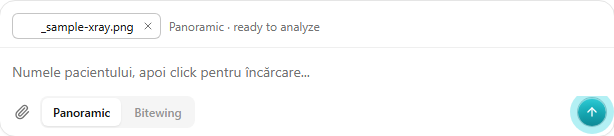
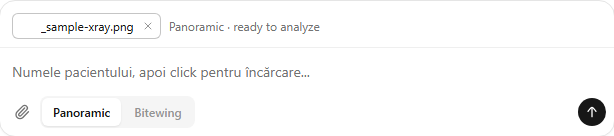
fix(frontend): Cavio green auth CTA + exact Notra Composer.Send
Auth CtaButton kept Notra structure (gradient + inset + halo) but
cta-gradient-primary hue remapped from Notra teal (#24d4df) to Cavio
green (oklab a/b for hue 156 / --primary).

Analyze Send reverted to verbatim apps/dashboard COMPOSER_SEND_BUTTON
(size-7 rounded-full bg-foreground) with Hugeicons ArrowUp02Icon size-4
— no CTA glow. Proof shots 30–36 + refreshed 21–24.

Changed region(s): [[0.9283, 0.7059, 1.0, 1.0], [0.2166, 0.1765, 0.2476, 0.2059]]

diff --git a/web/frontend/src/components/composer/composer-shell.tsx b/web/frontend/src/components/composer/composer-shell.tsx
@@ -1,9 +1,15 @@
-/**
+/**
  * Ported from usenotra/notra-src apps/dashboard/src/components/composer/composer-shell.tsx
- * Structure matches Notra Studio agent chat composer exactly.
- * Send uses Cavio green CTA (cta-gradient-primary) with inner glow when active.
+ * Structure + Send classes match Notra Studio agent chat composer exactly.
+ * Auth CTAs use separate CtaButton (green cta-gradient-primary) — Send does not.
  */
-import { ArrowUp, Loader2, Pencil, X } from "lucide-react";
+import {
+  ArrowUp02Icon,
+  Cancel01Icon,
+  Edit02Icon,
+} from "@hugeicons/core-free-icons";
+import { HugeiconsIcon } from "@hugeicons/react";
+import { Loader2 } from "lucide-react";
 import type { ComponentProps, ReactNode } from "react";
 import {
   Tooltip,
@@ -17,8 +23,6 @@ import {
   COMPOSER_NUDGE_ENTER,
   COMPOSER_NUDGE_GRID_TRANSITION,
   COMPOSER_SEND_BUTTON,
-  COMPOSER_SEND_BUTTON_ACTIVE,
-  COMPOSER_SEND_BUTTON_IDLE,
   COMPOSER_TOOLBAR_BUTTON,
 } from "@/constants/composer";
 import { cn } from "@/lib/utils";
@@ -144,7 +148,7 @@ function ComposerChip({
           onClick={onSteer}
           type="button"
         >
-          <ArrowUp className="size-3" />
+          <HugeiconsIcon className="size-3" icon={ArrowUp02Icon} />
         </button>
       ) : null}
       {onEdit && !pending ? (
@@ -154,7 +158,7 @@ function ComposerChip({
           onClick={onEdit}
           type="button"
         >
-          <Pencil className="size-3" />
+          <HugeiconsIcon className="size-3" icon={Edit02Icon} />
         </button>
       ) : null}
       {onRemove ? (
@@ -164,7 +168,7 @@ function ComposerChip({
           onClick={onRemove}
           type="button"
         >
-          <X className="size-3" />
+          <HugeiconsIcon className="size-3" icon={Cancel01Icon} />
         </button>
       ) : null}
     </span>
@@ -197,25 +201,22 @@ function ComposerSend({
   children,
   busy = false,
   disabled = false,
-  active = false,
   tooltip,
   label,
   onClick,
 }: ComposerSendProps) {
-  const content = busy ? <Loader2 className="size-3.5 animate-spin" /> : children;
-  const className = cn(
-    COMPOSER_SEND_BUTTON,
-    active && !disabled ? COMPOSER_SEND_BUTTON_ACTIVE : COMPOSER_SEND_BUTTON_IDLE,
-    disabled ? "pointer-events-none" : null,
-    disabled && !busy ? "opacity-30" : null,
-  );
+  const content = busy ? <Loader2 className="size-4 animate-spin" /> : children;
 
   const trigger = (
     <button
       aria-busy={busy}
       aria-disabled={disabled}
       aria-label={label}
-      className={className}
+      className={cn(
+        COMPOSER_SEND_BUTTON,
+        disabled ? "pointer-events-none" : null,
+        disabled && !busy ? "opacity-30" : null,
+      )}
       onClick={disabled ? undefined : onClick}
       type="button"
     >
@@ -235,7 +236,11 @@ function ComposerSend({
             aria-busy={busy}
             aria-disabled={disabled}
             aria-label={label}
-            className={className}
+            className={cn(
+              COMPOSER_SEND_BUTTON,
+              disabled ? "pointer-events-none" : null,
+              disabled && !busy ? "opacity-30" : null,
+            )}
             onClick={disabled ? undefined : onClick}
             type="button"
           />

diff --git a/web/frontend/src/constants/composer.ts b/web/frontend/src/constants/composer.ts
@@ -1,21 +1,10 @@
-/** Ported from usenotra/notra-src apps/dashboard/src/constants/composer.ts */
+/** Ported from usenotra/notra-src apps/dashboard/src/constants/composer.ts — exact strings */
 export const COMPOSER_TOOLBAR_BUTTON =
   "inline-flex h-7 shrink-0 items-center gap-1 rounded-md px-2 text-muted-foreground text-sm transition-colors hover:bg-muted hover:text-foreground focus-visible:outline-none focus-visible:ring-[3px] focus-visible:ring-ring/50 disabled:pointer-events-none disabled:opacity-50";
 
-/**
- * Send control — Notra Studio agent chat send + Cavio green primary CTA glow
- * (cta-gradient-primary from packages/ui/src/styles/cta-button.css).
- * Active/ready: exact Notra CTA primary (gradient + white inset inner glow).
- * Idle/disabled: muted circle (same footprint as Notra COMPOSER_SEND_BUTTON).
- */
+/** Exact Notra agent dashboard Composer.Send (size-7 circle, foreground fill — no CTA glow) */
 export const COMPOSER_SEND_BUTTON =
-  "ml-auto flex size-7 shrink-0 items-center justify-center rounded-full transition-[background-color,transform,box-shadow,opacity] focus-visible:outline-none focus-visible:ring-[3px] focus-visible:ring-ring/50 active:scale-[0.96]";
-
-export const COMPOSER_SEND_BUTTON_ACTIVE =
-  "cta-gradient-primary text-white border-0";
-
-export const COMPOSER_SEND_BUTTON_IDLE =
-  "bg-muted text-muted-foreground shadow-none";
+  "ml-auto flex size-7 shrink-0 items-center justify-center rounded-full bg-foreground text-background transition-[background-color,transform] hover:bg-foreground/90 focus-visible:outline-none focus-visible:ring-[3px] focus-visible:ring-ring/50 active:scale-[0.96]";
 
 export const COMPOSER_FRAME_TRANSITION =
   "transition-[background-color,padding-top,padding-left,padding-right,padding-bottom] duration-200 ease-out motion-reduce:transition-none";

diff --git a/web/frontend/src/components/chat/analyze-composer.tsx b/web/frontend/src/components/chat/analyze-composer.tsx
@@ -1,9 +1,11 @@
-/**
+/**
  * Cavio Analyze composer — structure matches Notra Studio agent chat composer
- * (Composer.Frame → input area → Composer.Toolbar → Attach + controls + Send CTA).
+ * (Composer.Frame → input area → Composer.Toolbar → Attach + controls + Send).
  */
 import { type DragEvent, type KeyboardEvent, type ReactNode } from "react";
-import { ArrowUp, Paperclip } from "lucide-react";
+import { ArrowUp02Icon } from "@hugeicons/core-free-icons";
+import { HugeiconsIcon } from "@hugeicons/react";
+import { Paperclip } from "lucide-react";
 import { Composer } from "@/components/composer/composer-shell";
 import { Input } from "@/components/ui/input";
 import { Tabs, TabsList, TabsTrigger } from "@/components/ui/tabs";
@@ -199,7 +201,6 @@ export function AnalyzeComposer({
             </Tabs>
 
             <Composer.Send
-              active={canSend}
               busy={loading}
               disabled={!canSend}
               label={file ? sendLabel : getStartedLabel}
@@ -212,7 +213,11 @@ export function AnalyzeComposer({
                 if (file) onAnalyze();
               }}
             >
-              <ArrowUp className="size-3.5" strokeWidth={2.25} />
+              <HugeiconsIcon
+                className="size-4"
+                icon={ArrowUp02Icon}
+                strokeWidth={2}
+              />
             </Composer.Send>
           </Composer.Toolbar>
         </section>

diff --git a/web/frontend/src/types/components/composer.ts b/web/frontend/src/types/components/composer.ts
@@ -1,4 +1,4 @@
-import type { ComponentProps, ReactNode } from "react";
+import type { ComponentProps, ReactNode } from "react";
 
 export type ComposerFrameProps = {
   children: ReactNode;
@@ -33,12 +33,11 @@ export type ComposerToolbarProps = {
   className?: string;
 };
 
+/** Matches Notra apps/dashboard ComposerSendProps (no active/CTA glow) */
 export type ComposerSendProps = {
   children?: ReactNode;
   busy?: boolean;
   disabled?: boolean;
-  /** When true, apply Notra CTA primary gradient + inner glow */
-  active?: boolean;
   tooltip?: string;
   label: string;
   onClick?: () => void;
